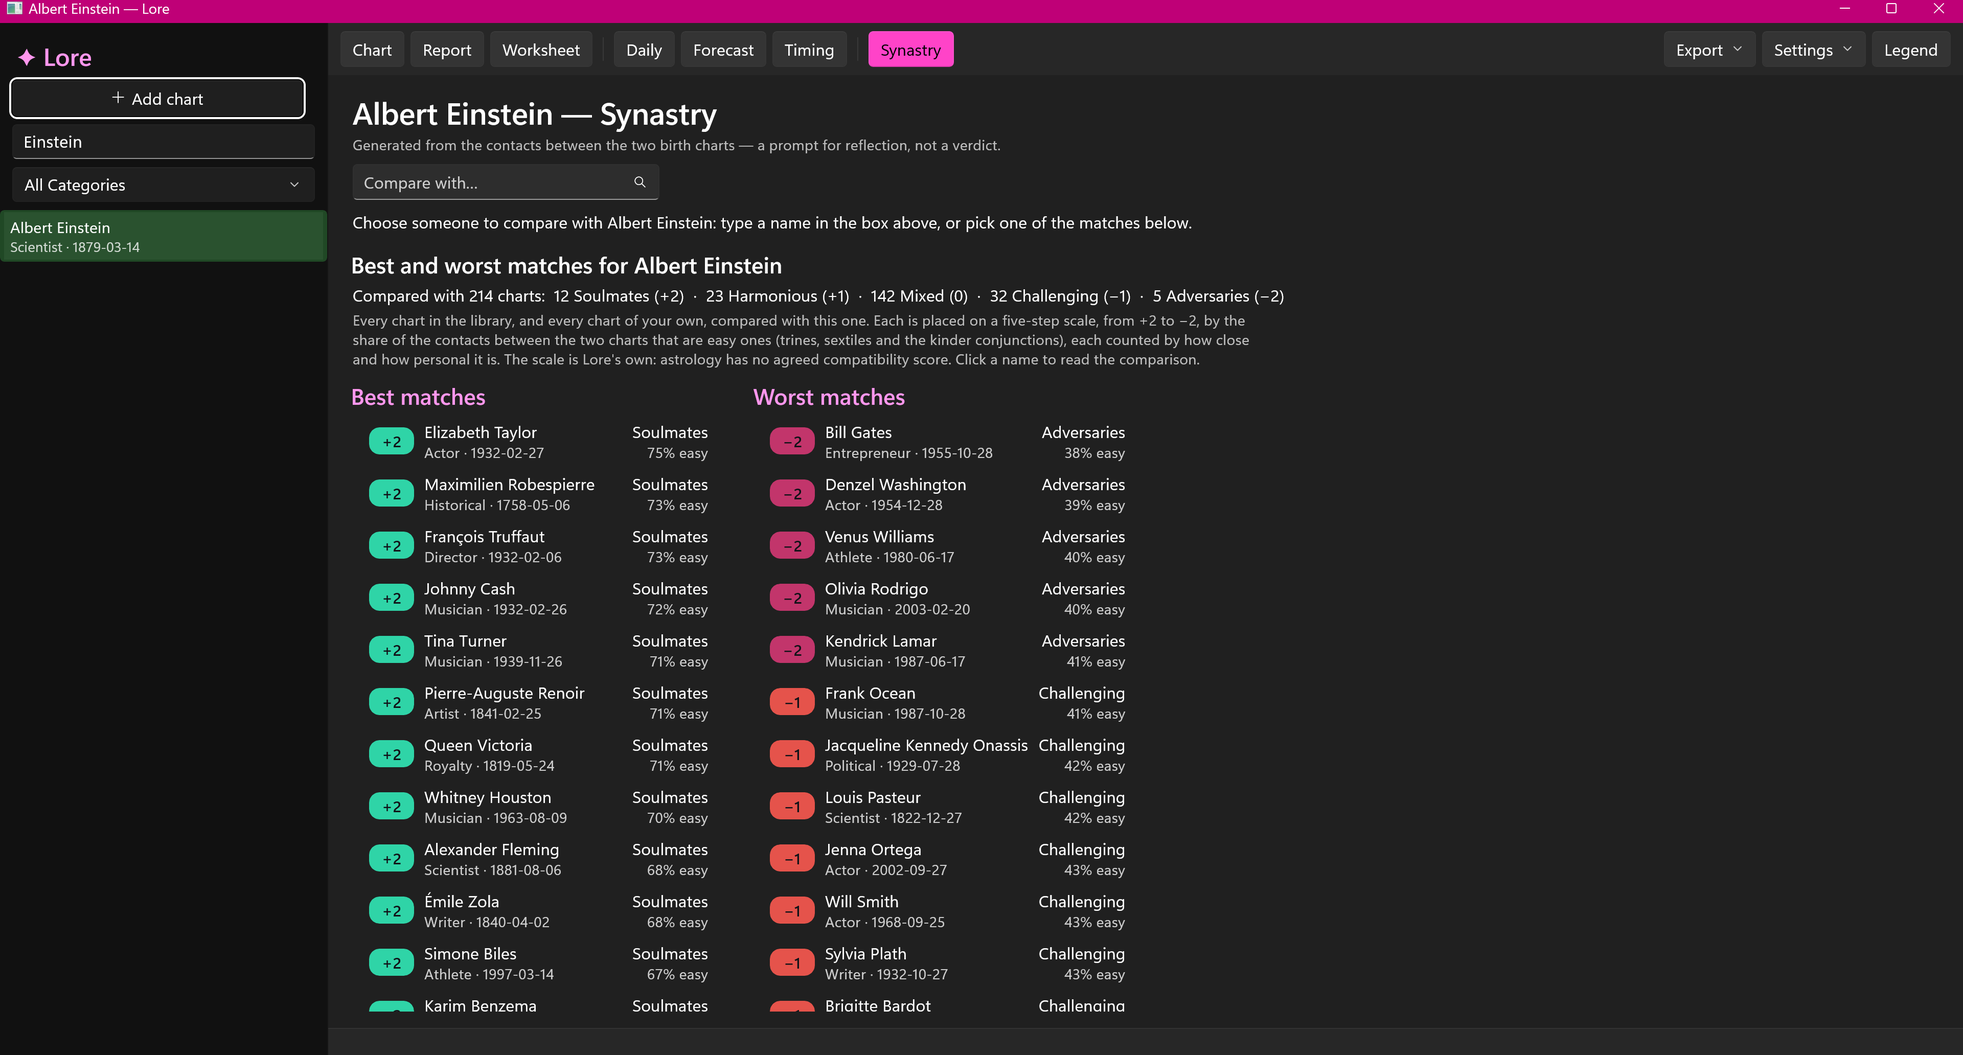
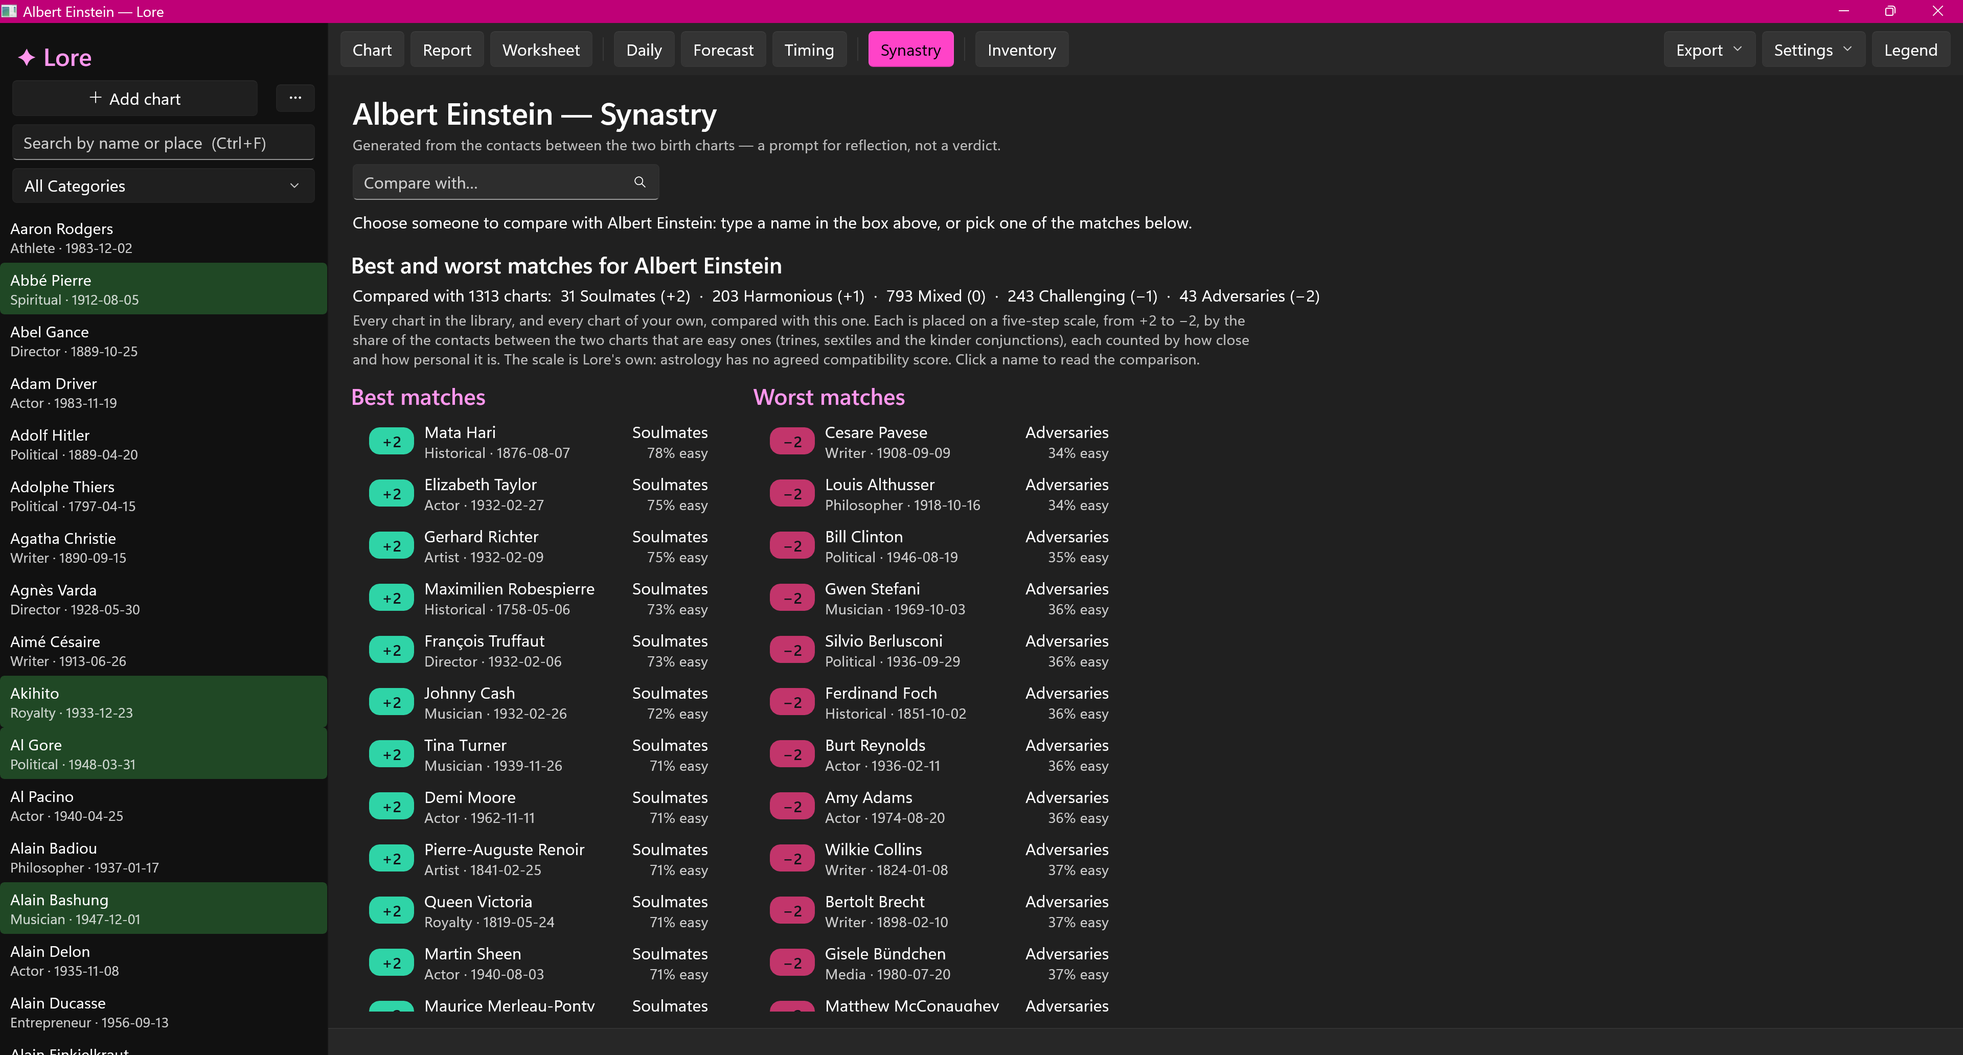
README for 3.2.0 with new screenshots; fix Inventory reading margin

diff --git a/Views/InventoryView.xaml b/Views/InventoryView.xaml
@@ -141,7 +141,7 @@
         <ScrollViewer Grid.Row="1" VerticalScrollBarVisibility="Auto"
                       Visibility="{x:Bind VisIf(ViewModel.ReadingShown), Mode=OneWay}">
             <ItemsControl ItemsSource="{x:Bind ViewModel.ReadingSections, Mode=OneWay}"
-                          Padding="24,0,24,24" MaxWidth="820" HorizontalAlignment="Left">
+                          Margin="24,0,24,24" MaxWidth="820" HorizontalAlignment="Left">
                 <ItemsControl.ItemTemplate>
                     <DataTemplate x:DataType="models:DailySection">
                         <StackPanel Spacing="10" Margin="0,6,0,14">

diff --git a/README.md b/README.md
@@ -4,14 +4,14 @@
 
 > A Windows desktop application for computing and exploring astrological natal charts — and reading a daily horoscope from them — powered by the Swiss Ephemeris. Browse a curated library of historical figures — every one with a documented birth time — or add your own.
 
-**Latest release: v3.1.0** · [Download](../../releases/latest)
+**Latest release: v3.2.0** · [Download](../../releases/latest)
 
 ### Installing
 
-1. From the [latest release](../../releases/latest), download **`LoreSetup-3.1.0.exe`**. It is a single file with everything inside it — there is nothing to unzip and nothing else to install (no .NET, no runtimes).
+1. From the [latest release](../../releases/latest), download **`LoreSetup-3.2.0.exe`**. It is a single file with everything inside it — there is nothing to unzip and nothing else to install (no .NET, no runtimes).
 2. Double-click it. It installs for the current user only (no administrator prompt), adds a Start-menu shortcut, and can be removed from *Settings → Apps* like any other program.
 
-**Prefer not to install?** Download **`Lore-3.1.0-portable.zip`** from the same release instead, unzip it anywhere, and run `Lore.exe` from inside the unzipped folder. (Keep the folder together — `Lore.exe` will not run on its own.) Delete the folder to remove it.
+**Prefer not to install?** Download **`Lore-3.2.0-portable.zip`** from the same release instead, unzip it anywhere, and run `Lore.exe` from inside the unzipped folder. (Keep the folder together — `Lore.exe` will not run on its own.) Delete the folder to remove it.
 
 > **The installer is not code-signed.** Lore is a free hobby project and does not carry a paid signing certificate, so Windows cannot verify who published it and will warn you:
 > - Your browser may say the file *"isn't commonly downloaded"* — choose **Keep** (in Edge: **⋯ → Keep → Show more → Keep anyway**).
@@ -20,7 +20,7 @@
 > These warnings appear for any unsigned program, and only the first time. If you would rather not run an unsigned installer, you can [build Lore from source](#building-from-source) instead.
 
 
-![Lore showing the Albert Einstein report](Assets/screenshot-einstein-report.png)
+![Lore 3.2.0 showing the chart wheel for Albert Einstein, with his dignity score, planet list and aspects](Assets/screenshot-einstein-chart.png)
 
 ---
 
@@ -30,7 +30,7 @@
 - **Swiss Ephemeris** (`sweph.dll`) provides high-precision planetary positions for dates from 1200 CE to 2400 CE.
 - Computes positions for **13 bodies**: Sun, Moon, Mercury, Venus, Mars, Jupiter, Saturn, Uranus, Neptune, Pluto, North Node (mean or true), Chiron, and Black Moon Lilith (mean or true apogee).
 - Calculates the **12 house cusps** (Placidus, Whole Sign, Equal, or Koch — your choice), Ascendant, and Midheaven.
-- Detects **five major aspects** (conjunction ☌, sextile ⚹, square □, trine △, opposition ☍) with per-aspect orbs, and flags each as applying or separating.
+- Detects **five major aspects** (conjunction ☌, sextile ⚹, square □, trine △, opposition ☍) with per-aspect orbs, and flags each as applying or separating. The **minor aspects** (semi-sextile, semi-square, quintile, sesquiquadrate, biquintile, quincunx) can be switched on in Settings.
 - Detects **major configurations** — stellium, grand trine, kite, T-square, grand cross, mystic rectangle and (with the minor aspects on) yod — from the positions and aspects (a T-square that is one arm of a grand cross, or a grand trine that is the body of a kite, is not reported twice).
 - Retrograde detection for every planet from Mercury to Pluto, and Chiron.
 - **Further points and measurements** — the South Node, Descendant, IC, Vertex and the Parts of Fortune and Spirit; the lunar phase at birth; each planet's distance from the Sun; parallels, contra-parallels and out-of-bounds planets by declination; the balance of the chart; chart ruler, house rulers and dispositors.
@@ -63,7 +63,11 @@
 | **Inventory** | A standard personality questionnaire (the public-domain IPIP-NEO-120) for any chart of your own; the profile it gives, five broad traits and thirty facets, each set beside a reference group; and a reading that sets that profile beside the chart, planet by planet. See below. |
 | **Legend** | Full-page reference — a grouped list of every glyph, colour, angle, house, and term; click any item for a fuller explanation. |
 
-![Lore showing the Worksheet's measurements for Albert Einstein: the Moon's phase, distance from the Sun, and declination](Assets/screenshot-einstein-worksheet.png)
+Ctrl+1 to Ctrl+8 switch between the first eight views, F1 opens the Legend, Ctrl+N adds a chart and Ctrl+F jumps to the search box. Lore reopens on the chart and view you last had open.
+
+![Lore showing the written Report for Albert Einstein](Assets/screenshot-einstein-report.png)
+
+![Lore showing the Worksheet's measurements for Albert Einstein: the Moon's phase, distance from the Sun, and motion and stations](Assets/screenshot-einstein-worksheet.png)
 
 ### Daily Horoscope
 The **Daily** view writes a horoscope for the selected chart, for today or any date you step to, from that day's **transits** — the aspects the moving planets make to the fixed points of the birth chart.
@@ -106,6 +110,10 @@ Astrology has no agreed compatibility score; the scale is Lore's own, and it des
 
 ### Personality Inventory
 The **Inventory** view offers a standard personality questionnaire for any chart under My Charts, and then reads the chart in the light of the answers. A chart is the same for everyone born at that minute and cannot know how a given person is living it; the questionnaire asks them.
+
+![Lore showing the chart-and-answers reading for a made-up person: the Sun and Moon as the chart gives them, as the answers describe them, and set against the sign](Assets/screenshot-inventory-chart-and-answers.png)
+
+*(The person and the answers in this picture are made up.)*
 
 - **The questionnaire** is the **IPIP-NEO-120** (Johnson, 2014), from the International Personality Item Pool: 120 short statements, each answered from *very inaccurate* to *very accurate*, measuring the five traits of the Five-Factor Model (Neuroticism, Extraversion, Openness, Agreeableness, Conscientiousness) and thirty narrower facets. It is in the public domain. The statements are given word for word.
 - **Ten statements at a time**, fifteen to twenty-five minutes in all. Every answer is saved as it is given, so a sitting can be left and taken up again.
@@ -179,9 +187,13 @@ Lore/
 │                    #   Aspect, HouseCusp, ZodiacSign, DignityScore, …
 ├── Services/
 │   ├── SwissEphemeris.cs      # P/Invoke wrapper around Native\sweph.dll
-│   ├── SettingsService.cs     # House system / node type, saved to settings.json
+│   ├── AppFolder.cs           # Where the reader's own files live (%LOCALAPPDATA%\Lore)
+│   ├── SettingsService.cs     # House system, node, Lilith and orbs (settings.json); last view (ui.json); where you are (home.json)
 │   ├── WorksheetService.cs    # The Worksheet view's tables and its text export
+│   ├── WorksheetPdf.cs        # The Worksheet as pages of a PDF
 │   ├── NatalMetricsService.cs # Further measurements: derived points, lunar phase, declination, balance, rulers
+│   ├── NatalEventsService.cs  # Looked for in the ephemeris: lunations and stations around birth, planetary day and hour
+│   ├── AspectPatternService.cs # Stellium, grand trine, kite, T-square, grand cross, mystic rectangle, yod
 │   ├── TimeSensitivityService.cs # "If the birth time is off": what holds and what changes across a margin
 │   ├── ChartService.cs        # Orchestrates planet + house + aspect calculation
 │   ├── BirthTimeResolver.cs   # UTC conversion using NodaTime + GeoTimeZone
@@ -189,7 +201,8 @@ Lore/
 │   ├── ChartInterpreter.cs    # Report generation from interpretations.json corpus
 │   ├── TransitService.cs      # Daily horoscope, astronomy: a day's transits to a natal chart
 │   ├── DailyInterpreter.cs    # Daily horoscope, wording: rank, select, compose from daily.json
-│   ├── DailyExportService.cs  # Daily horoscope PDF / text export
+│   ├── DailyExportService.cs  # Daily, Forecast and Timing PDF / text export
+│   ├── TimingService.cs       # Solar return, profection, progressions, solar arc, relocation
 │   ├── SynastryService.cs     # Synastry, astronomy: aspects and house overlays between two charts
 │   ├── SynastryInterpreter.cs # Synastry, wording: rank, select, compose from synastry.json
 │   ├── DavisonInterpreter.cs  # The Davison chart's reading, composed from davison.json
@@ -197,24 +210,33 @@ Lore/
 │   ├── InventoryStore.cs      # Where the answers are kept (inventories.json, apart from mycharts.json)
 │   ├── MirrorInterpreter.cs   # Chart and answers: which facets speak for which planet, composed from mirror.json
 │   ├── SynastryScoring.cs     # Synastry, weighing: the five-step scale and the best/worst match search
-│   ├── SynastryExportService.cs # Synastry PDF export
+│   ├── SynastryExportService.cs # Synastry and Davison PDF export
 │   ├── ExportService.cs       # PNG / PDF / JSON / XML export
 │   ├── CelebrityService.cs    # Loads celebrities.json
 │   ├── UserChartService.cs    # Loads/saves mycharts.json
 │   ├── CityService.cs         # City autocomplete for Add-Chart dialog
-│   └── HospitalService.cs     # Hospital autocomplete for Add-Chart dialog
+│   ├── HospitalService.cs     # Hospital autocomplete for Add-Chart dialog
+│   └── Diagnostics.cs         # The error log (%TEMP%\lore-crash.txt)
 ├── ViewModels/
 │   ├── MainViewModel.cs       # Browse list, search/filter, category, add/delete
 │   ├── ChartViewModel.cs      # Chart + report state for the detail pane
 │   ├── DailyViewModel.cs      # Daily horoscope state: chart, date, generated reading
-│   └── SynastryViewModel.cs   # Synastry state: chart, partner, generated reading
+│   ├── ForecastViewModel.cs   # Forecast state: chart, start date, period, sky calendar
+│   ├── TimingViewModel.cs     # Timing state: chart, date, the place it is cast for
+│   ├── SynastryViewModel.cs   # Synastry state: chart, partner, comparison or Davison chart
+│   └── InventoryViewModel.cs  # Inventory state: the sitting in progress, profile, chart-and-answers reading
 ├── SplashWindow.xaml/.cs      # Launch splash: artwork + "Lore <version>", up while data loads
 ├── Views/
-│   ├── ChartRenderer.cs       # Win2D Direct2D chart wheel drawing
+│   ├── ChartRenderer.cs       # Win2D Direct2D chart wheel drawing (natal, transit and bi-wheel)
+│   ├── ChartSheetRenderer.cs  # The "chart with tables" image
 │   ├── ChartView.xaml/.cs     # Chart wheel + export controls
 │   ├── ReportView.xaml/.cs    # Natural-language report display
+│   ├── WorksheetView.xaml/.cs # The Worksheet's tables
 │   ├── DailyView.xaml/.cs     # Daily horoscope with date navigation
+│   ├── ForecastView.xaml/.cs  # Transits ahead, month by month
+│   ├── TimingView.xaml/.cs    # Solar return wheel and the Timing reading
 │   ├── SynastryView.xaml/.cs  # Synastry reading, partner picker, and bi-wheel
+│   ├── InventoryView.xaml/.cs # The questionnaire, the profile and the chart-and-answers reading
 │   ├── LegendView.xaml/.cs    # Glyph + colour legend
 │   └── AddChartDialog.xaml/.cs# Custom chart entry dialog
 ├── Data/
@@ -231,13 +253,15 @@ Lore/
 ├── Native/
 │   └── sweph.dll              # Built by Build-SwephDll.ps1 (not in repo)
 ├── tests/
-│   └── Lore.Tests/            # xUnit tests: calculations, transits, saved charts, figures vs Astro-Databank
+│   └── Lore.Tests/            # 381 xUnit tests: calculations, readings, saved charts, view models, figures vs Astro-Databank
 ├── Assets/
 │   ├── AppIcon.ico            # Indigo/gold "L" icon
 │   └── splash.png             # Splash-screen artwork (name + version drawn over it at launch)
+├── release.bat                # Tests, portable build and installer in one go
 └── scripts/
     ├── build-portable.ps1     # Self-contained portable build
     ├── build-installer.ps1    # Inno Setup installer
+    ├── assert-clean-release.ps1 # Refuses a build that contains anyone's own charts or answers
     ├── build-icons.ps1        # Icon generation (requires ImageMagick)
     ├── build-cities.py        # Regenerate cities.json from simplemaps CSV
     ├── build-swetest-reference.py # Regenerate the swetest comparison values for the tests
@@ -251,7 +275,7 @@ Lore/
 | Package | Role |
 |---|---|
 | `Microsoft.WindowsAppSDK` 1.8 | WinUI 3 framework (unpackaged) |
-| `Microsoft.Graphics.Win2D` | Direct2D-backed chart wheel rendering |
+| `Microsoft.Graphics.Win2D` 1.4 | Direct2D-backed chart wheel rendering |
 | `CommunityToolkit.Mvvm` 8 | Observable properties, relay commands |
 | `NodaTime` 3 | Historical DST-aware UTC conversion |
 | `GeoTimeZone` 5 | Offline lat/lon → IANA timezone mapping |
@@ -296,7 +320,7 @@ The `.csproj` automatically copies `sweph.dll` and the required `.se1` ephemeris
 dotnet test tests\Lore.Tests
 ```
 
-The tests cover the parts that must stay right: birth-time resolution (daylight saving, local mean time, historical city times), planet and Ascendant positions checked against Astro-Databank's published values, the daily transit scan checked against an independent calculation, the daily-horoscope corpus and wording, synastry (the contacts found between two charts, and the corpus and wording of the reading), crash-safe saving of My Charts (including recovery from a damaged file), and hospital search. `FigureLibraryTests` checks every bundled figure against its Astro-Databank record in `tests\Lore.Tests\Reference\adb-reference.json`: each well-documented (AA/A) birth time must match, and Lore must turn it into the same instant Astro-Databank does. Run them after editing `Data\celebrities.json`.
+The 381 tests cover the parts that must stay right: birth-time resolution (daylight saving, local mean time, historical city times), planet and Ascendant positions checked against Astro-Databank's published values, the daily transit scan checked against an independent calculation, the daily-horoscope corpus and wording, synastry (the contacts found between two charts, and the corpus and wording of the reading), the forecast, the Timing techniques, the Davison reading, the personality inventory's scoring and the chart-and-answers rules, the view models, crash-safe saving of My Charts (including recovery from a damaged file), and city and hospital search. They run on GitHub on every push. `FigureLibraryTests` checks every bundled figure against its Astro-Databank record in `tests\Lore.Tests\Reference\adb-reference.json`: each well-documented (AA/A) birth time must match, and Lore must turn it into the same instant Astro-Databank does. Run them after editing `Data\celebrities.json`.
 
 `SwetestReferenceTests` checks Lore against **swetest**, the Swiss Ephemeris's own command-line program, for fourteen moments and places chosen to be awkward: both ephemeris files and the seam between them, both hemispheres, the equator, the date line, and both polar circles. Every body's longitude, latitude, speed and declination, the Ascendant and Midheaven, and all twelve cusps under each of the four house systems must agree to a millionth of a degree. Because the two share an engine this checks that Lore asks it the right question, not the astronomy itself (the Astro-Databank comparison does that). The expected values live in `tests\Lore.Tests\Reference\swetest-reference.json`; `python scripts\build-swetest-reference.py` regenerates them (it needs `swetest64.exe` from the full Swiss Ephemeris download).
 
@@ -308,7 +332,7 @@ Produces a self-contained folder that runs with no installed .NET or VC++ runtim
 .\scripts\build-portable.ps1
 ```
 
-Output: `artifacts\Lore-<version>-portable\` (e.g. `Lore-3.1.0-portable\`) — zip the whole folder and share; the recipient unzips and runs `Lore.exe` directly. (The folder is self-contained: `Lore.exe` alone will not run.)
+Output: `artifacts\Lore-<version>-portable\` (e.g. `Lore-3.2.0-portable\`) — zip the whole folder and share; the recipient unzips and runs `Lore.exe` directly. (The folder is self-contained: `Lore.exe` alone will not run.)
 
 ### Step 4 — Installer
 
@@ -327,6 +351,8 @@ Then:
 ```
 
 Output: `artifacts\LoreSetup-<version>.exe`.
+
+`release.bat` does all of it in one go: it runs the tests (and stops if one fails), makes the portable build and the installer, and checks that nobody's own charts or answers are in either.
 
 > **Note:** The installer is unsigned, so Windows will warn about it the first time — see [Installing](#installing). The `.exe` is complete on its own; it does not need to be zipped with anything else to be shared.
 
@@ -459,6 +485,34 @@ Editable corpus for the natural-language report. Edit it to change what the Repo
 
 Names must match the app's display names (`North Node`, not `NorthNode`).
 
+### `Data\davison.json`
+
+Editable corpus for the Davison chart's reading (about 250 lines).
+
+- `sun`, `moon`, `rising` — the relationship's Sun, Moon and rising sign, one line per sign.
+- `houses` — 84 lines keyed `Planet|House` for the Sun to Saturn; `houseAreas` names each house.
+- `aspects` — 108 lines keyed `Point|Tone|Point`, as in `synastry.json`. `pointThemes` and `toneLinks` assemble a plainer sentence for a pair with no line of its own.
+- `contacts`, `personThemes` — one person's own planet standing on a main point of the Davison chart.
+- `notes` — what the chart is, and what is left out when a birth time is missing.
+
+### `Data\inventory.json`
+
+The personality inventory: the 120 statements of the IPIP-NEO-120 with their scoring keys (`items`), the five answers (`choices`), and the five traits and thirty facets (`domains`, `facets`), each with its reference mean and standard deviation and Lore's own low, typical and high sentence.
+
+The descriptions may be edited. **The statements and their keys must not be**: they are given word for word, and a reworded statement is no longer the one the reference figures were gathered with.
+
+### `Data\mirror.json`
+
+The rules and the words for the reading that sets the profile beside the chart, and for the sentences the answers add to the Report, Daily and Forecast.
+
+- `planets` — for each of the nine planets read: its `dials` (groups of facets; a minus sign counts a facet the other way up); its `expressions`, tried in order, the first whose `when` fits being used; its `unlived` and `hardWon` paragraphs, for when its dignity and the answers disagree; and, for the Sun to Saturn, `signs`, the level of each dial that each of the twelve signs leads one to expect.
+- `compare` — the sentence patterns for *Against the sign* ("more {noun} than {body} in {sign} would suggest").
+- `rising`, `aspects`, `elements`, `modalities` — the Ascendant, the aspects between two planets the answers speak of (by how each end is lived), and the balance of the chart.
+- `forecast` — the lines used in the Forecast, which do not speak of "today".
+- `comparison`, `notes` — the labels, the introduction, and the plain statements of what the reading is and is not.
+
+`MirrorTests` holds the rules to a simulated population of 3,000 people: after changing a `when`, run the tests.
+
 ---
 
 ## Calculation Settings
@@ -469,7 +523,10 @@ The **Settings** button in the toolbar holds the choices astrologers disagree on
 |---|---|
 | **House system** | Placidus *(default)*, Whole Sign, Equal, Koch |
 | **North Node** | Mean node *(default)*, True node |
+| **Black Moon Lilith** | Mean Lilith *(default)*, True (osculating) Lilith |
 | **Aspect orbs** | Standard *(default: 8°, sextile 6°)*, Tight, Wide, or your own figure for each aspect, with an optional extra for the Sun and Moon |
+| **Minor aspects** | Off *(default)*, or on with an orb of their own (2° unless changed) |
+| **Where you are** | A city, for the Daily view's planetary hours; it changes nothing about any chart |
 
 Changing the house system moves no planet and neither angle — only which house each planet falls in, and so the house part of the dignity score. Whether a chart is a day or night chart is taken from the Sun's position above or below the horizon, so it is the same under every system.
 
